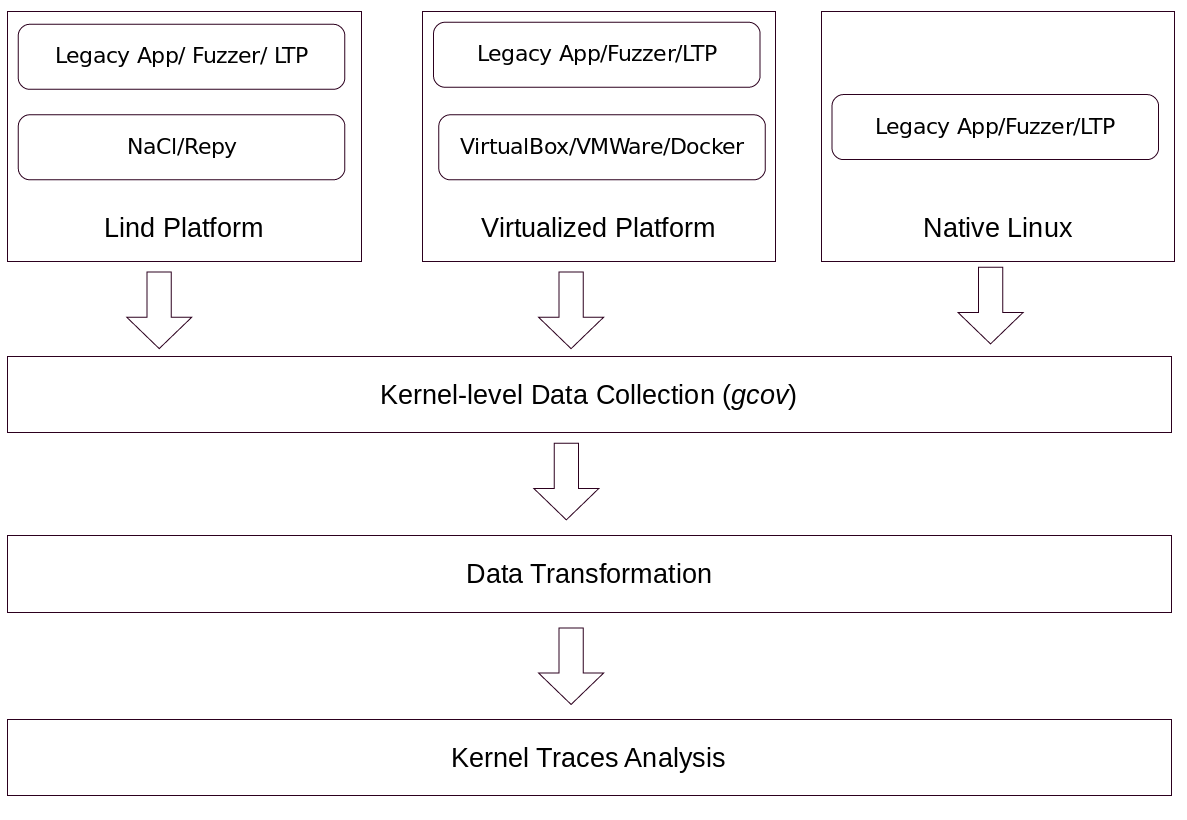
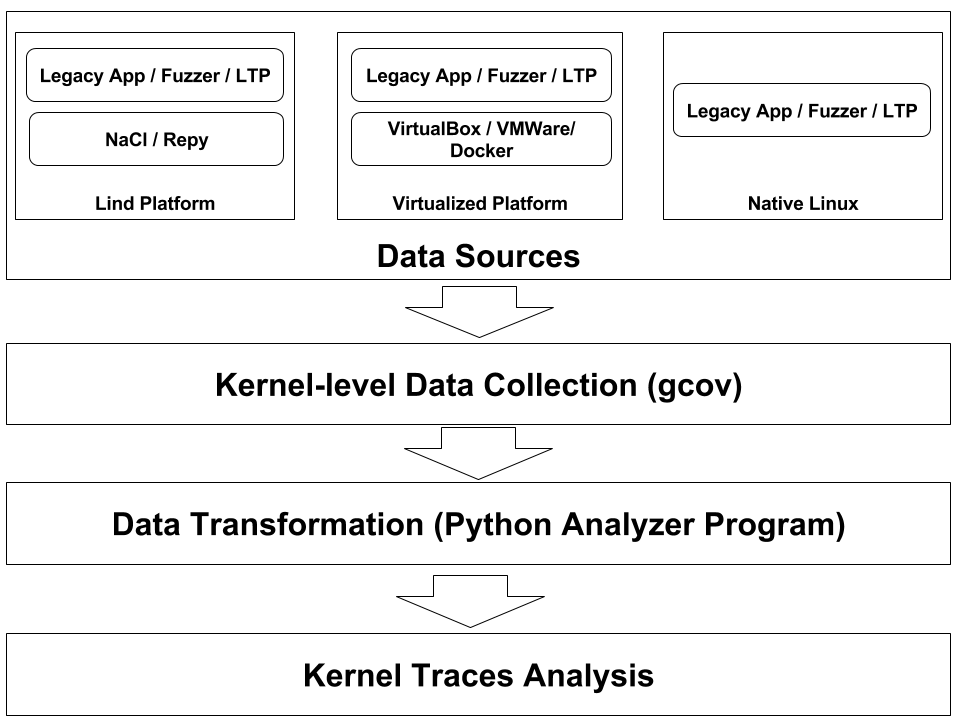
described the data collection steps

diff --git a/metric.tex b/metric.tex
@@ -112,9 +112,6 @@ calls) to avoid the potential damage.
 \cappos{end of text}
 
 
-
-
-
 \subsection{Key Hypothesis}
 
 Our hypothesis is that kernel paths executed by popular applications, 
@@ -156,7 +153,8 @@ security systems is possible.
 To capture the kernel trace, we used \texttt{gcov} \cite{gcov}, a program profiling
 tool that is a standard utility with the GNU compiler collection 
 %(GCC) 
-suite. 
+suite.
+
 
 The second step was to evaluate security aspects of the kernel traces that
 we captured. 
@@ -218,19 +216,20 @@ that were missed by Trinity. While Trinity provided us about 15\% of kernel trac
 that were not included by LTP. 
 \end{itemize}
 
-
+Figure \ref{fig:datacollection} shows different platforms and tools that were used for the analysis. The kernel traces are generated by running several legacy applications, system fuzzers and LTP within different platforms such as Lind (Nacl/Repy), virtualized platforms and a normal native Linux. Then a Python analyzer program filters and transforms the kernel traces that are collected using gcov. The output will be used for kernel traces analysis as discussed in the followings.
 
 \begin{figure}%[h]
 \centering
 \includegraphics[width=1.0\columnwidth]{diagram/data_collection.png}
-\caption{Various activities that were performed to capture and analyze the kernel traces generated by legacy applications, system fuzzers, LTP, and CVE bug reports. The traces are collected using \texttt{gcov} and using a Python-based program will be transformed for final data analysis.} 
-\label{fig:design}
+\caption{Various activities that were performed to capture and analyze the kernel traces generated by legacy applications, system fuzzers, LTP, and CVE bug reports. The traces are collected using \texttt{gcov} and using a Python-based program that will be transformed for final data analysis.} 
+\label{fig:datacollection}
 \end{figure}
 
 
-Combining the kernel traces generated by Trinity and LTP, we were able to
-access our total reachable kernel paths.
-We found that 38.5\% of the total reachable
+
+We were able to 
+%access
+assess our total reachable kernel paths through combining the kernel traces generated by Trinity and LTP. The results show that 38.5\% of the total reachable
 kernel paths are commonly used. 
 More importantly, only 2.5\% of the bugs examined were found in the common
 paths, 
